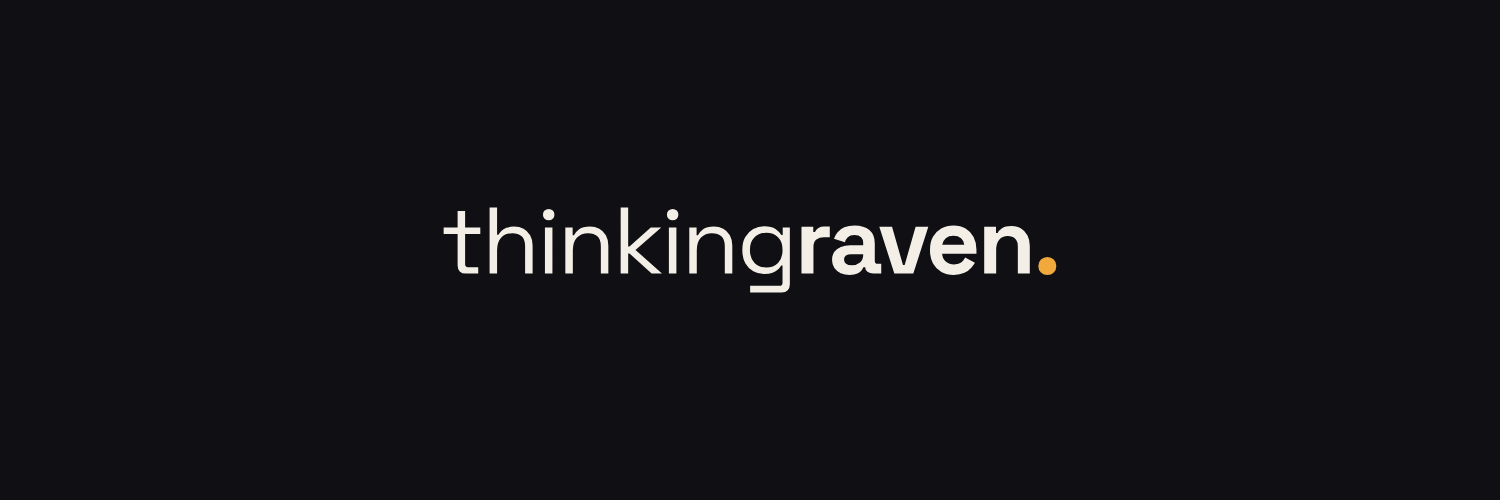
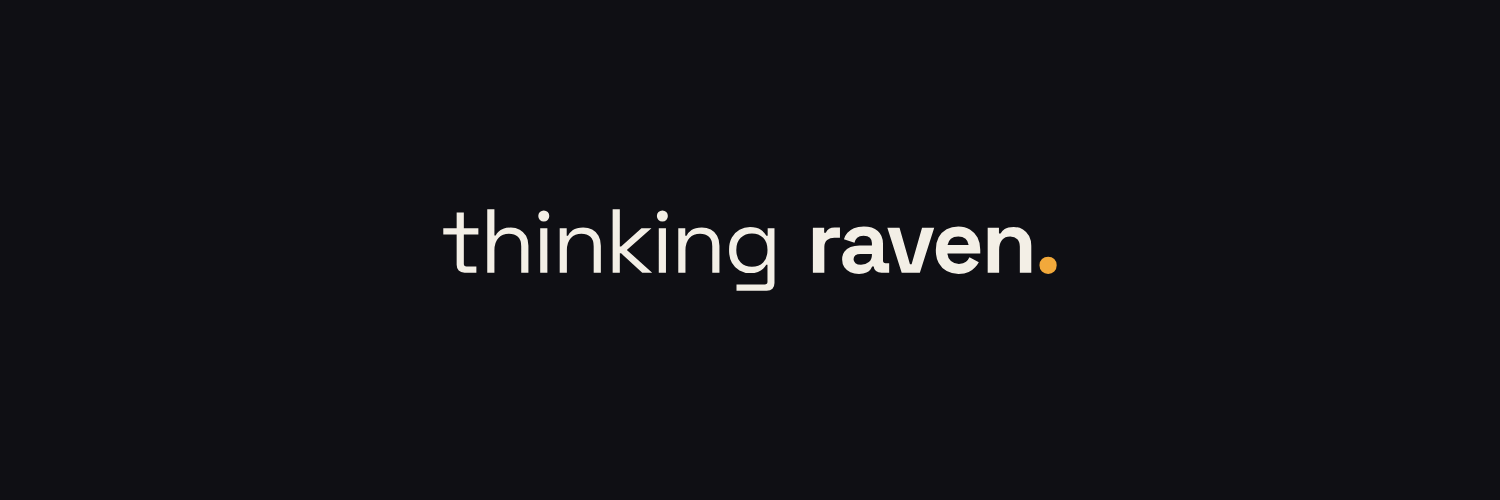
Space the wordmark: "thinking raven." instead of "thinkingraven."
At a glance the unspaced wordmark read as "thinkin graven". Round 2
explored six fixes (archive/round-2-wordmark); option A, a fixed 0.30 em
word space, was chosen. Regenerated the outlined SVGs and every export
that shows the wordmark.

Changed region(s): [[0.3067, 0.42, 0.7053, 0.6]]

diff --git a/tools/wordmark_v2.py b/tools/wordmark_v2.py
@@ -1,0 +1,219 @@
+"""Round-2 wordmark exploration: variants that keep "thinking" and "raven" visually separate.
+
+Usage: python -I wordmark_v2.py <brand_dir> <board_html>
+Needs fonttools + uharfbuzz. Writes SVGs to archive/round-2-wordmark/ and a review board.
+"""
+import io
+import sys
+from pathlib import Path
+
+import uharfbuzz as hb
+from fontTools.pens.boundsPen import BoundsPen
+from fontTools.pens.svgPathPen import SVGPathPen
+from fontTools.pens.transformPen import TransformPen
+from fontTools.ttLib import TTFont
+from fontTools.varLib import instancer
+
+BRAND, BOARD = Path(sys.argv[1]), Path(sys.argv[2])
+OUT = BRAND / "archive" / "round-2-wordmark"
+OUT.mkdir(parents=True, exist_ok=True)
+FONTS = BRAND / "fonts"
+INK, BONE, AMBER = "#0F0F14", "#F3EFE6", "#F2A93B"
+MUTE_LIGHT, MUTE_DARK = "#6A6A75", "#8A8A98"
+
+_cache = {}
+
+
+def font(key):
+    """key: ('sg', wght) for Space Grotesk instances, ('sm', 400|700) for Space Mono."""
+    if key not in _cache:
+        if key[0] == "sg":
+            f = instancer.instantiateVariableFont(TTFont(FONTS / "SpaceGrotesk-VF.ttf"), {"wght": key[1]})
+            buf = io.BytesIO()
+            f.save(buf)
+            data = buf.getvalue()
+        else:
+            data = (FONTS / ("SpaceMono-Bold.ttf" if key[1] == 700 else "SpaceMono-Regular.ttf")).read_bytes()
+        tt = TTFont(io.BytesIO(data))
+        _cache[key] = (tt, hb.Font(hb.Face(data)))
+    return _cache[key]
+
+
+def xheight(key):
+    tt, _ = font(key)
+    return tt["OS/2"].sxHeight / tt["head"].unitsPerEm
+
+
+def shape(text, key, size, x, y, tracking=0.0):
+    tt, hbf = font(key)
+    s = size / tt["head"].unitsPerEm
+    order, gs = tt.getGlyphOrder(), tt.getGlyphSet()
+    buf = hb.Buffer()
+    buf.add_str(text)
+    buf.guess_segment_properties()
+    hb.shape(hbf, buf, {"kern": True, "liga": True})
+    parts, bounds = [], None
+    for info, pos in zip(buf.glyph_infos, buf.glyph_positions):
+        t = (s, 0, 0, -s, x + pos.x_offset * s, y - pos.y_offset * s)
+        pen = SVGPathPen(gs, lambda v: f"{v:.2f}".rstrip("0").rstrip("."))
+        gs[order[info.codepoint]].draw(TransformPen(pen, t))
+        parts.append(pen.getCommands())
+        bp = BoundsPen(gs)
+        gs[order[info.codepoint]].draw(TransformPen(bp, t))
+        if bp.bounds:
+            bounds = bp.bounds if bounds is None else (min(bounds[0], bp.bounds[0]), min(bounds[1], bp.bounds[1]),
+                                                      max(bounds[2], bp.bounds[2]), max(bounds[3], bp.bounds[3]))
+        x += pos.x_advance * s + tracking
+    return " ".join(p for p in parts if p), bounds, x
+
+
+class Mark:
+    def __init__(self):
+        self.items, self.bounds = [], None
+
+    def add(self, kind, data, colour, bounds):
+        self.items.append((kind, data, colour))
+        b = bounds
+        self.bounds = b if self.bounds is None else (min(self.bounds[0], b[0]), min(self.bounds[1], b[1]),
+                                                     max(self.bounds[2], b[2]), max(self.bounds[3], b[3]))
+
+    def text(self, text, key, size, x, y, colour, tracking=0.0):
+        d, b, nx = shape(text, key, size, x, y, tracking)
+        self.add("path", d, colour, b)
+        return nx
+
+    def dot(self, cx, cy, r, colour):
+        self.add("circle", (cx, cy, r), colour, (cx - r, cy - r, cx + r, cy + r))
+
+    def svg(self, fg, muted, pad=6, title="Thinking Raven"):
+        x0, y0, x1, y1 = self.bounds
+        vx, vy, vw, vh = x0 - pad, y0 - pad, x1 - x0 + 2 * pad, y1 - y0 + 2 * pad
+        col = {"fg": fg, "muted": muted, "amber": AMBER}
+        body = ""
+        for kind, data, c in self.items:
+            if kind == "path":
+                body += f'<path fill="{col[c]}" d="{data}"/>'
+            else:
+                body += f'<circle fill="{col[c]}" cx="{data[0]:.2f}" cy="{data[1]:.2f}" r="{data[2]:.2f}"/>'
+        return (f'<svg xmlns="http://www.w3.org/2000/svg" viewBox="{vx:.2f} {vy:.2f} {vw:.2f} {vh:.2f}" role="img" '
+                f'aria-label="{title}"><title>{title}</title>{body}</svg>')
+
+
+SIZE, TRACK = 66, -2
+SG4, SG7, SM4 = ("sg", 400), ("sg", 700), ("sm", 400)
+SPACE = SIZE * 0.30  # a clear word space
+
+variants = []
+
+m = Mark()
+x = m.text("thinking", SG4, SIZE, 0, 0, "fg", TRACK)
+x = m.text("raven.", SG7, SIZE, x + SPACE, 0, "fg", TRACK)
+# recolour the final full stop amber by re-drawing it on top
+m2 = Mark(); x2 = m2.text("thinking", SG4, SIZE, 0, 0, "fg", TRACK); x2 = m2.text("raven", SG7, SIZE, x2 + SPACE, 0, "fg", TRACK); m2.text(".", SG7, SIZE, x2 + TRACK, 0, "amber")
+variants.append(("A", "Word space", "The current wordmark with a real space. The smallest possible change: still minimal, and \"graven\" is gone.", m2))
+
+m = Mark(); x = m.text("thinking", SG4, SIZE, 0, 0, "muted", TRACK); x = m.text("raven", SG7, SIZE, x + SPACE, 0, "fg", TRACK); m.text(".", SG7, SIZE, x + TRACK, 0, "amber")
+variants.append(("B", "Space + tone", "\"thinking\" steps back in a softer tone and \"raven.\" leads, so the words separate by space, weight and tone. The eye lands on \"raven\" first.", m))
+
+m = Mark(); x = m.text("thinking", SG4, SIZE, 0, 0, "fg", TRACK)
+r = SIZE * 0.085; gap = SIZE * 0.36
+m.dot(x + gap / 2 - TRACK / 2, -xheight(SG4) * SIZE / 2, r, "amber")
+m.text("raven", SG7, SIZE, x + gap, 0, "fg", TRACK)
+variants.append(("C", "Amber dot separator", "The raven's eye moves between the words: thinking·raven. One dot, one meaning: the thought lands, then the raven speaks. No full stop.", m))
+
+m = Mark(); m.text("thinking", SG4, SIZE, 0, 0, "fg", TRACK); x = m.text("raven", SG7, SIZE, 0, SIZE * 0.92, "fg", TRACK); m.text(".", SG7, SIZE, x + TRACK, SIZE * 0.92, "amber")
+variants.append(("D", "Stacked", "Two lines that can never merge. Compact and square-friendly: ideal for avatars, app splash screens, stickers and social headers.", m))
+
+scale = xheight(SG4) / xheight(SM4)
+m = Mark(); x = m.text("thinking", SM4, SIZE * scale, 0, 0, "fg", -1); x = m.text("raven", SG7, SIZE, x + SIZE * 0.26, 0, "fg", TRACK); m.text(".", SG7, SIZE, x + TRACK, 0, "amber")
+variants.append(("E", "Mono + bold", "\"thinking\" in Space Mono (machine-like: the process) and \"raven.\" in Grotesk Bold (the answer). Two faces tell the story and the words can't blend.", m))
+
+m = Mark(); x = m.text("Thinking", SG4, SIZE, 0, 0, "fg", TRACK); x = m.text("Raven", SG7, SIZE, x + SPACE, 0, "fg", TRACK); m.text(".", SG7, SIZE, x + TRACK, 0, "amber")
+variants.append(("F", "Title case", "Capitals mark each word boundary: Thinking Raven. The most literal and most readable option, and a little more formal.", m))
+
+for vid, name, _, mk in variants:
+    slug = name.lower().replace(" + ", "-").replace(" ", "-")
+    (OUT / f"{vid}-{slug}-ink.svg").write_text(mk.svg(INK, MUTE_LIGHT) + "\n")
+    (OUT / f"{vid}-{slug}-bone.svg").write_text(mk.svg(BONE, MUTE_DARK) + "\n")
+
+current = Mark(); x = current.text("thinking", SG4, SIZE, 0, 0, "fg", TRACK); x = current.text("raven", SG7, SIZE, x, 0, "fg", TRACK); current.text(".", SG7, SIZE, x + TRACK, 0, "amber")
+
+
+def card(vid, name, why, mk, is_current=False):
+    ink, bone = mk.svg(INK, MUTE_LIGHT), mk.svg(BONE, MUTE_DARK)
+    pick = "" if is_current else f'<label class="pick"><input type="radio" name="pick" value="{vid} {name}" form="picks"> Choose</label>'
+    return f'''
+  <article class="card{' current' if is_current else ''}">
+    <header><div><span class="vid">{vid}</span><h2>{name}</h2></div>{pick}</header>
+    <p class="why">{why}</p>
+    <div class="hero dark">{bone}</div>
+    <div class="row">
+      <div class="tile light">{ink}</div>
+      <div class="tile glance light" title="Glance test: blurred, as seen in a quick scroll">{ink}<span>glance test</span></div>
+    </div>
+    <div class="row small">
+      <div class="nav light"><span class="navlogo">{ink}</span><span class="links">Product · Pricing · Docs</span></div>
+      <div class="nav dark"><span class="navlogo">{bone}</span><span class="links">Product · Pricing · Docs</span></div>
+    </div>
+  </article>'''
+
+
+cards = card("Now", "Current: no space", "For comparison. At a glance the bold \"r\" joins the \"g\" and it reads \"thinkin graven\".", current, True)
+cards += "".join(card(*v) for v in variants)
+BOARD.write_text(f'''<!doctype html><html lang="en"><head><meta charset="utf-8"><meta name="viewport" content="width=device-width, initial-scale=1">
+<title>Wordmark Round 2</title>
+<style>
+  @font-face {{ font-family: "Space Grotesk"; src: url("SpaceGrotesk-VF.ttf"); font-weight: 300 700; }}
+  :root {{ --ink:{INK}; --bone:{BONE}; --amber:{AMBER}; }}
+  *,*::before,*::after {{ box-sizing:border-box; }}
+  body {{ margin:0; background:#09090C; color:var(--bone); font-family:"Space Grotesk", Helvetica, Arial, sans-serif; }}
+  main {{ max-width:1180px; margin:0 auto; padding:40px 16px 80px; }}
+  .kicker {{ color:var(--amber); letter-spacing:.16em; text-transform:uppercase; font-size:12px; font-weight:600; }}
+  h1 {{ font-size:clamp(28px,4.5vw,46px); letter-spacing:-.02em; margin:.2em 0 .3em; }}
+  .lead {{ color:#9A9AA8; max-width:780px; line-height:1.55; }}
+  .grid {{ display:grid; gap:20px; grid-template-columns:repeat(auto-fill,minmax(min(100%,520px),1fr)); margin-top:28px; }}
+  .card {{ background:#14141A; border:1px solid #25252E; border-radius:18px; padding:20px; min-width:0; }}
+  .card.current {{ border-color:#5a2a2a; }}
+  .card header {{ display:flex; justify-content:space-between; align-items:center; gap:12px; }}
+  .card header div {{ display:flex; align-items:center; gap:10px; }}
+  .vid {{ font-size:12px; color:#111; background:var(--amber); border-radius:999px; padding:2px 9px; font-weight:700; }}
+  .current .vid {{ background:#ff7b72; }}
+  h2 {{ margin:0; font-size:20px; }}
+  .pick {{ font-size:13px; color:#9A9AA8; cursor:pointer; }} .pick input {{ accent-color:var(--amber); }}
+  .why {{ color:#C9C7C0; font-size:14px; line-height:1.55; margin:10px 0 14px; }}
+  .hero {{ border-radius:14px; padding:34px 28px; display:grid; place-items:center; }}
+  .hero svg {{ width:100%; max-width:420px; height:auto; max-height:130px; }}
+  .dark {{ background:var(--ink); border:1px solid #25252E; }} .light {{ background:var(--bone); }}
+  .row {{ display:grid; grid-template-columns:1fr 1fr; gap:12px; margin-top:12px; }}
+  .tile {{ border-radius:12px; padding:18px; display:grid; place-items:center; position:relative; min-height:96px; }}
+  .tile svg {{ width:100%; max-width:220px; height:auto; max-height:70px; }}
+  .glance svg {{ filter:blur(1.6px); max-width:130px; }}
+  .glance span {{ position:absolute; bottom:6px; right:10px; font-size:10px; color:#6A6A75; letter-spacing:.08em; text-transform:uppercase; }}
+  .nav {{ border-radius:10px; padding:10px 14px; display:flex; align-items:center; justify-content:space-between; gap:10px; min-width:0; }}
+  .navlogo svg {{ height:18px; width:auto; display:block; }}
+  .nav .links {{ font-size:11px; color:#6A6A75; white-space:nowrap; overflow:hidden; text-overflow:ellipsis; }}
+  .nav.dark .links {{ color:#8A8A98; }}
+  form {{ margin-top:30px; background:#14141A; border:1px solid #25252E; border-radius:18px; padding:20px; display:grid; gap:12px; }}
+  textarea {{ width:100%; background:#0d0d11; color:var(--bone); border:1px solid #25252E; border-radius:10px; padding:10px; font:inherit; }}
+  button {{ justify-self:start; background:var(--amber); color:#111; border:0; border-radius:999px; padding:10px 18px; font:600 14px inherit; cursor:pointer; }}
+  #status {{ color:#9A9AA8; font-size:13px; }}
+</style></head><body><main>
+  <p class="kicker">Thinking Raven · wordmark · round 2</p>
+  <h1>Keep it minimal, make it unmistakable</h1>
+  <p class="lead">The current wordmark can read as "thinkin graven" at a glance. Each option below keeps the same font, palette and quiet feel, but separates the two words. Every card shows the logo on dark and light, a <b>glance test</b> (blurred and small, like a quick scroll), and the logo in a nav bar at 18 px.</p>
+  <section class="grid">{cards}</section>
+  <form id="picks" data-lavish-question="wordmark-v2" onsubmit="event.preventDefault();
+    const pick=(document.querySelector('input[name=pick]:checked')||{{}}).value||'';
+    const notes=(this.notes.value||'').trim();
+    if(!pick&&!notes){{document.getElementById('status').textContent='Choose a variant or add a note.';return;}}
+    const msg='Wordmark round 2 pick: '+(pick||'none')+(notes?'. Notes: '+notes:'');
+    document.getElementById('status').textContent='Queued: '+msg;
+    if(window.lavish) window.lavish.queuePrompt(msg,{{tag:'choice',text:msg,element:this,queueKey:'wordmark-v2',data:{{pick,notes}}}});">
+    <h2>Your pick</h2>
+    <textarea name="notes" rows="2" placeholder="Optional: e.g. 'A but with B's softer thinking', or 'C as primary, D for avatars'"></textarea>
+    <button type="submit">Queue my pick</button><span id="status" role="status" aria-live="polite"></span>
+  </form>
+</main></body></html>''')
+import shutil
+shutil.copy(FONTS / "SpaceGrotesk-VF.ttf", BOARD.parent / "SpaceGrotesk-VF.ttf")
+print(f"Wrote {len(variants)} variants to {OUT}\nBoard: {BOARD}")

diff --git a/tools/outline.py b/tools/outline.py
@@ -36,6 +36,9 @@ def run(segments, size, tracking_px):
     x = 0.0
     paths, bounds = [], [float("inf"), float("inf"), float("-inf"), float("-inf")]
     for text, wght, colour in segments:
+        if colour == "gap":  # explicit word space, in px (wght holds the width)
+            x += wght
+            continue
         font, hbfont = instance(wght)
         upem = font["head"].unitsPerEm
         s = size / upem
@@ -82,8 +85,10 @@ def write(name, paths, bounds, fg, pad, bg=None, square=None, title="Thinking Ra
     print(f"{name}: {vw:.0f}x{vh:.0f}")
 
 
-# Wordmark: "thinking" light, "raven" bold, amber full stop. Same proportions as the board (66 px, -2 px tracking).
-wm, wmb = run([("thinking", 400, "fg"), ("raven", 700, "fg"), (".", 700, "amber")], 66, -2)
+# Wordmark: "thinking" regular, word space, "raven" bold, amber full stop (66 px master, -2 px tracking).
+# The 0.30 em word space keeps the two words from reading as "thinkin graven" (round-2 decision, option A).
+WORD_SPACE = 66 * 0.30
+wm, wmb = run([("thinking", 400, "fg"), ("", WORD_SPACE, "gap"), ("raven", 700, "fg"), (".", 700, "amber")], 66, -2)
 write("thinkingraven-wordmark-ink.svg", wm, wmb, INK, pad=6)
 write("thinkingraven-wordmark-bone.svg", wm, wmb, BONE, pad=6)
 
